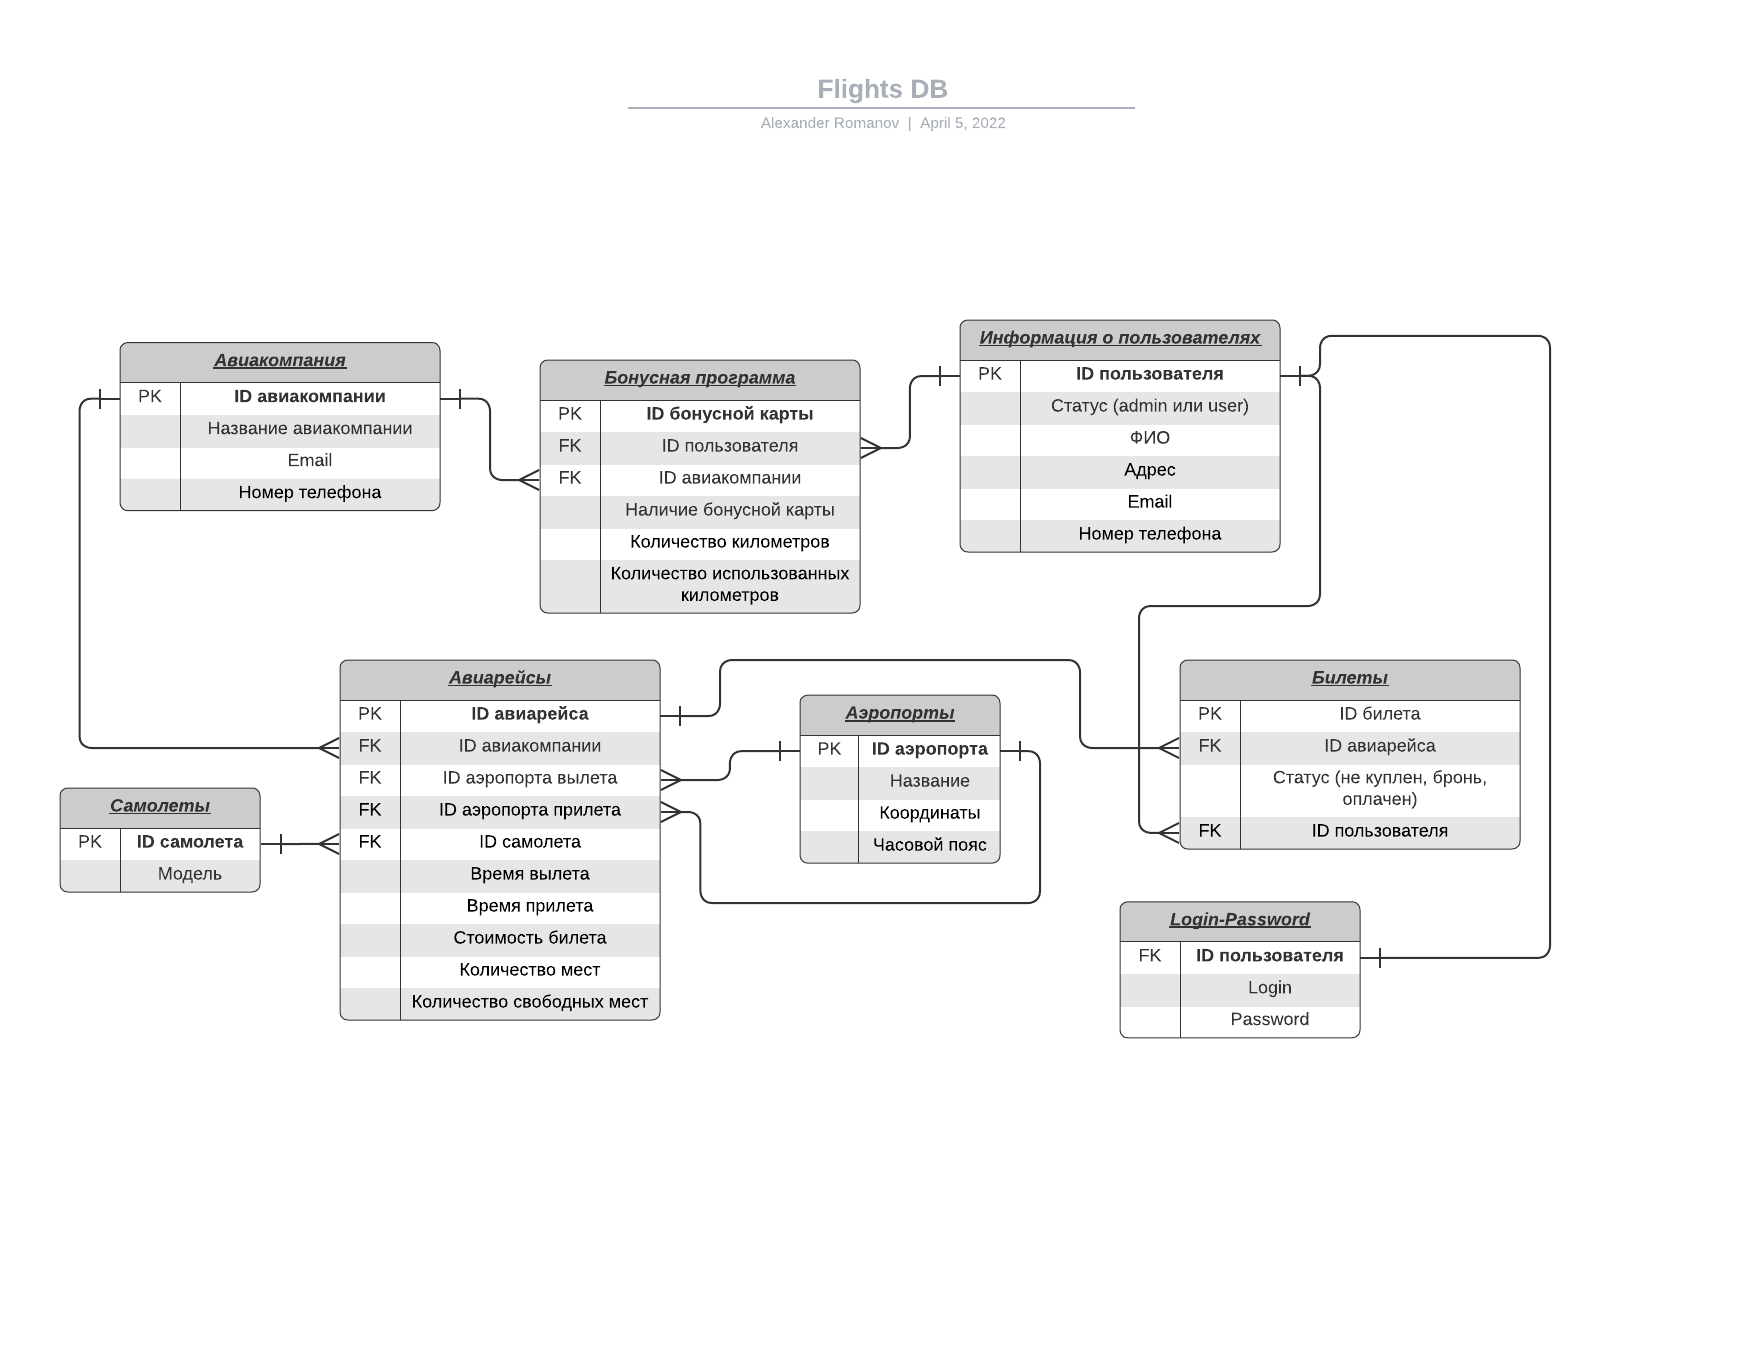
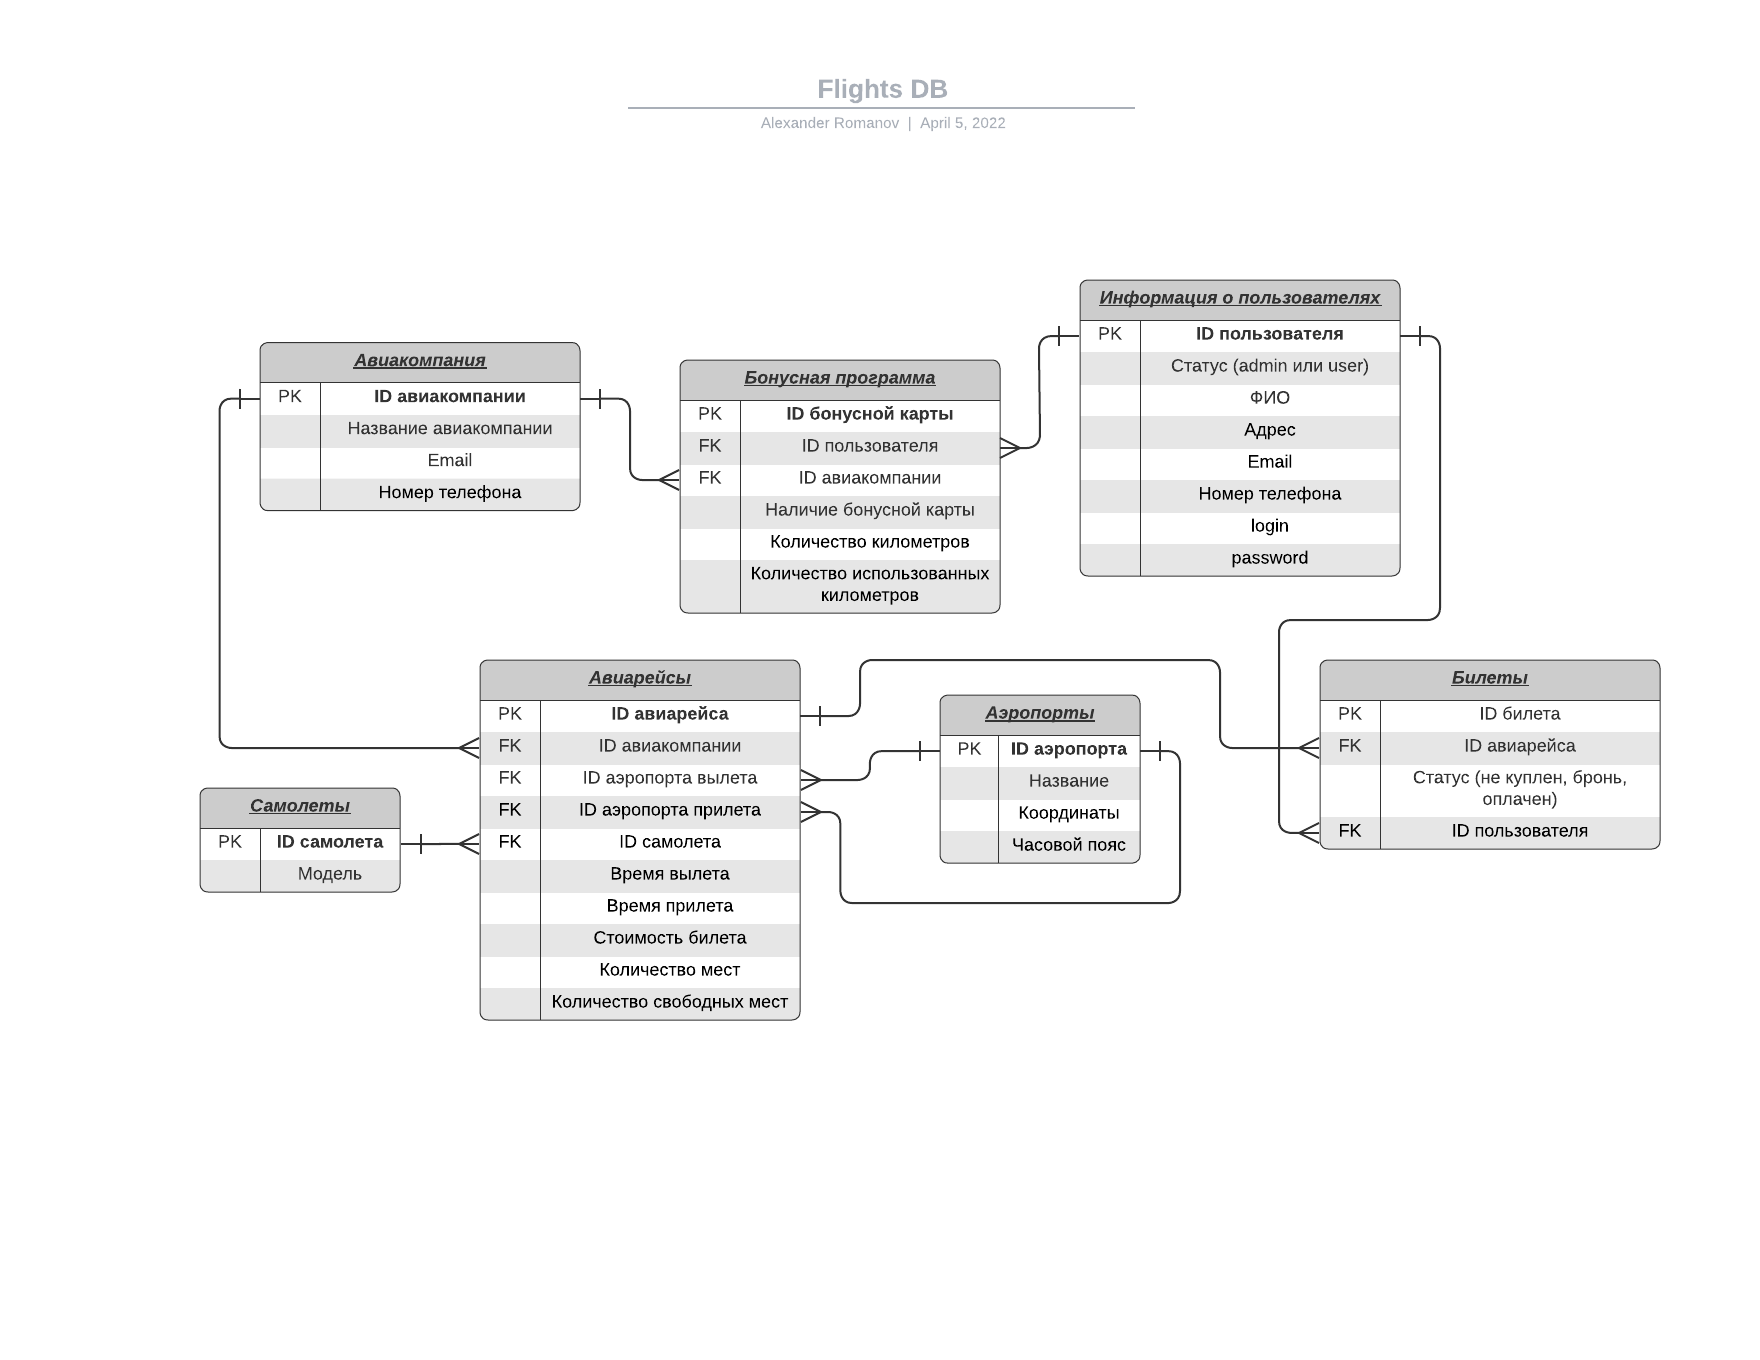
Update create_database.sql and DB scheme

Changed region(s): [[0.0312, 0.1853, 0.9688, 0.7721]]

diff --git a/src/main/java/ru/msu/cmc/webprak/models/Users.java b/src/main/java/ru/msu/cmc/webprak/models/Users.java
@@ -37,4 +37,12 @@ public class Users {
     @Lob
     @Column(name = "phone_number", nullable = false)
     private String phoneNumber;
+
+    @Lob
+    @Column(name = "user_login", nullable = false)
+    private String userLogin;
+
+    @Lob
+    @Column(name = "user_password", nullable = false)
+    private String userPassword;
 }
